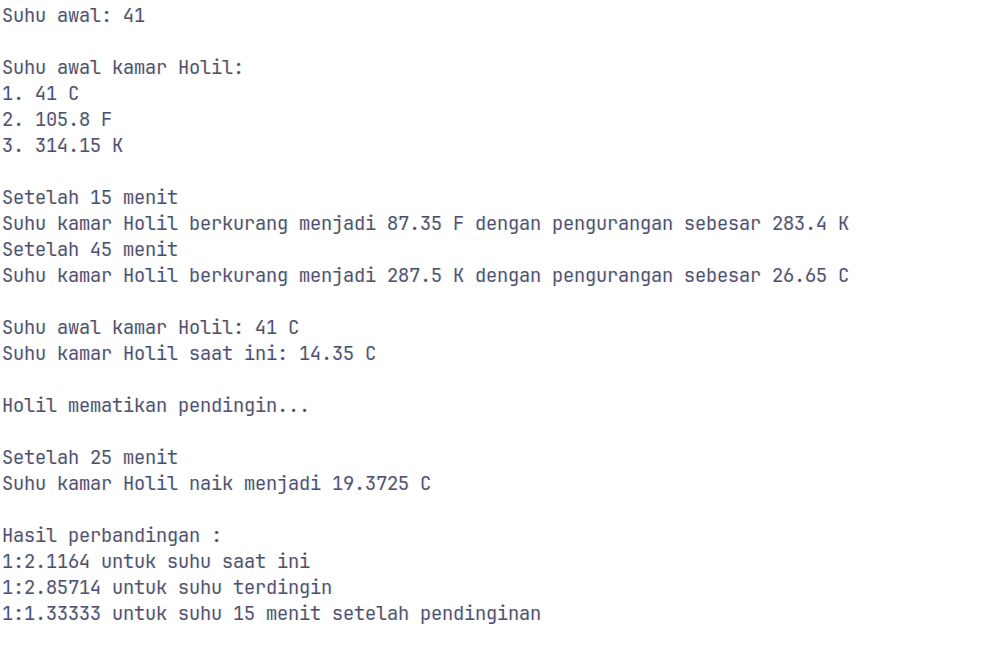
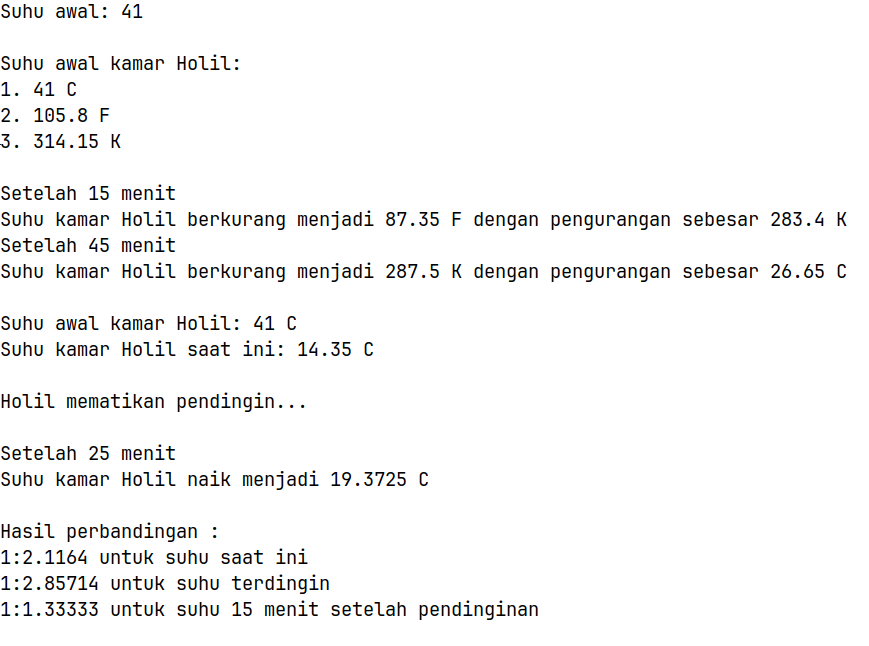
May this be the last...

diff --git a/sections/m1p5.tex b/sections/m1p5.tex
@@ -3,29 +3,29 @@
 \begin{document}
     \lstinputlisting[firstline=1,lastline=1]{res/m1c1.cpp}
 
-    {\Script} \inputscript{\#include <iostream>} adalah \textit{header file} yang digunakan sebagai standar masukan dan keluaran dalam bahasa C++ untuk mendeklarasikan dan mendefinisikan {\statement} \inputscript{cin} dan \inputscript{cout}.
+    \ilz{}{\Script} \inputscript{\#include <iostream>} adalah \textit{header file} yang digunakan sebagai standar masukan dan keluaran dalam bahasa C++ untuk mendeklarasikan dan mendefinisikan {\statement} \inputscript{cin} dan \inputscript{cout}.
 
     \lstinputlisting[firstline=2,lastline=2]{res/m1c1.cpp}
 
-    {\Script} \inputscript{using namespace std;} adalah {\statement} yang digunakan untuk memberikan perintah kepada {\compiler} bahwa file tersebut akan menggunakan seluruh fungsi yang menjadi bagian dari \inputscript{namespace std}.
+    \ilz{}{\Script} \inputscript{using namespace std;} adalah {\statement} yang digunakan untuk memberikan perintah kepada {\compiler} bahwa file tersebut akan menggunakan seluruh fungsi yang menjadi bagian dari \inputscript{namespace std}.
 
 \begin{lstlisting}
 int main()
 \end{lstlisting}
 
-    {\Script} \inputscript{int main()} merupakan \textit{entry point} dari setiap program yang ditulis dalam bahasa C++. \textit{Entry point} merupakan sebuah fungsi yang akan dijalankan setiap awal mula program dalam fungsi \inputscript{\_startup}.
+    \ilz{}{\Script} \inputscript{int main()} merupakan \textit{entry point} dari setiap program yang ditulis dalam bahasa C++. \textit{Entry point} merupakan sebuah fungsi yang akan dijalankan setiap awal mula program dalam fungsi \inputscript{\_startup}.
 
     \begin{lstlisting}
 float temp;
 \end{lstlisting}
 
-    {\Script} \inputscript{float temp} adalah sebuah {\statement} deklarasi sebuah variabel. Dalam bahasa C++ deklarasi variabel akan mengambil sebuah alamat memori dan membuat variabel yang menunjuk pada alamat tersebut. Oleh karena itu di bahasa C++ sebuah variabel yang dideklarasikan namun tidak diinisialisasi akan bernilai acak karena akan langsung menggunakan alamat memori tanpa mengaturnya ke 0.
+    \ilz{}{\Script} \inputscript{float temp} adalah sebuah {\statement} deklarasi sebuah variabel. Dalam bahasa C++ deklarasi variabel akan mengambil sebuah alamat memori dan membuat variabel yang menunjuk pada alamat tersebut. Oleh karena itu di bahasa C++ sebuah variabel yang dideklarasikan namun tidak diinisialisasi akan bernilai acak karena akan langsung menggunakan alamat memori tanpa mengaturnya ke 0.
 
 \begin{lstlisting}
 cout << "Suhu awal: ";
 \end{lstlisting}
 
-    {\Script} \inputscript{cout << "Suhu awal: "} akan memasukan teks ``Suhu Awal: '' kedalam {\ioo} {\stream} dengan perantara objek \inputscript{cout}. Semua teks yang berada di dalam {\ioo} {\stream} akan ditampilkan kepada pengguna dalam bentuk teks.
+    \ilz{}{\Script} \inputscript{cout << "Suhu awal: "} akan memasukan teks ``Suhu Awal: '' kedalam {\ioo} {\stream} dengan perantara objek \inputscript{cout}. Semua teks yang berada di dalam {\ioo} {\stream} akan ditampilkan kepada pengguna dalam bentuk teks.
 
 \begin{lstlisting}
 cout << "1. " << temp << " C" << endl;
@@ -33,25 +33,25 @@ cout << "2. " << ((temp * 1.8f) + 32) << " F" << endl;
 cout << "3. " << (temp + 273.15f) << " K" << endl << endl;
 \end{lstlisting}
 
-    {\Script} diatas akan menampilkan nilai variabel \inputscript{temp} dalam tiga unit suhu yakni Celsius, Fahrenheit, dan Kelvin. Penampilan tiga unit suhu tersebut dilakukan dalam tiga baris yang berbeda dan setiap baris diawali angka urutan barisnya.
+    \ilz{}{\Script} diatas akan menampilkan nilai variabel \inputscript{temp} dalam tiga unit suhu yakni Celsius, Fahrenheit, dan Kelvin. Penampilan tiga unit suhu tersebut dilakukan dalam tiga baris yang berbeda dan setiap baris diawali angka urutan barisnya.
 
 \begin{lstlisting}
 cin >> temp;
 \end{lstlisting}
 
-    {\Script} \inputscript{cin >> temp} adalah {\statement} {\ioi} yang mengambil masukan dari \textit{standard} {\ioi} {\stream} dan memasukannya kedalam variabel \inputscript{temp}. Hal ini juga yang mengakibatkan variabel \inputscript{temp} tidak diinisialisasikan seperti yang telah dijelaskan sebelumnya.
+    \ilz{}{\Script} \inputscript{cin >> temp} adalah {\statement} {\ioi} yang mengambil masukan dari \textit{standard} {\ioi} {\stream} dan memasukannya kedalam variabel \inputscript{temp}. Hal ini juga yang mengakibatkan variabel \inputscript{temp} tidak diinisialisasikan seperti yang telah dijelaskan sebelumnya.
 
 \begin{lstlisting}
 cout << endl;
 \end{lstlisting}
 
-    {\Script} \inputscript{cout << endl;} akan memasukan \textit{newline escape sequence} dan mem-\textit{flush} terhadap isi \textit{standard output stream}. Dalam bahasa C++ sebuah isi \textit{standard output stream} akan ditampilkan bila ditemukan \textit{newline escape sequence}, hal ini disebut dengan \textit{buffering}.
+    \ilz{}{\Script} \inputscript{cout << endl;} akan memasukan \textit{newline escape sequence} dan mem-\textit{flush} terhadap isi \textit{standard output stream}. Dalam bahasa C++ sebuah isi \textit{standard output stream} akan ditampilkan bila ditemukan \textit{newline escape sequence}, hal ini disebut dengan \textit{buffering}.
 
 \begin{lstlisting}
 float temp0 = (temp - (temp * 0.25f));
 \end{lstlisting}
 
-    {\Script} \inputscript{float temp0 = (temp - (temp * 0.25f));} adalah {\statement} inisialisasi variabel. Dalam kasus ini variabel yang diinisialisasikan akan bernilai sesuai nilai variabel \inputscript{temp} dikurangi 25\%. Nilai variabel \inputscript{temp0} bergantung pada nilai variabel \inputscript{temp}.
+    \ilz{}{\Script} \inputscript{float temp0 = (temp - (temp * 0.25f));} adalah {\statement} inisialisasi variabel. Dalam kasus ini variabel yang diinisialisasikan akan bernilai sesuai nilai variabel \inputscript{temp} dikurangi 25\%. Nilai variabel \inputscript{temp0} bergantung pada nilai variabel \inputscript{temp}.
 
 \begin{lstlisting}
 cout << "Setelah 15 menit" << endl;
@@ -61,13 +61,13 @@ cout << "Suhu kamar Holil berkurang menjadi "
      << " K" << endl;
 \end{lstlisting}
 
-    {\Script} diatas akan menampilkan teks ``Setelah 15 menit'' yang kemudian akan diikuti oleh teks yang akan menampilkan nilai variabel \inputscript{temp0} dalam unit suhu Fahrenheit dan perbandingan nilai variabel tersebut dengan nilai variabel \inputscript{temp} dalam satuan Kelvin.
+    \ilz{}{\Script} diatas akan menampilkan teks ``Setelah 15 menit'' yang kemudian akan diikuti oleh teks yang akan menampilkan nilai variabel \inputscript{temp0} dalam unit suhu Fahrenheit dan perbandingan nilai variabel tersebut dengan nilai variabel \inputscript{temp} dalam satuan Kelvin.
 
 \begin{lstlisting}
 float temp1 = (temp - (temp * 0.65f));
 \end{lstlisting}
 
-    {\Script} \inputscript{float temp1 = (temp - (temp * 0.65f));} merupakan sebuah {\statement} inisialisasi variabel. Dalam kasus ini variabel yang diinisialisasikan akan bernilai sesuai nilai variabel \inputscript{temp} dikurangi 65\%. Nilai variabel \inputscript{temp1} bergantung pada variabel \inputscript{temp}.
+    \ilz{}{\Script} \inputscript{float temp1 = (temp - (temp * 0.65f));} merupakan sebuah {\statement} inisialisasi variabel. Dalam kasus ini variabel yang diinisialisasikan akan bernilai sesuai nilai variabel \inputscript{temp} dikurangi 65\%. Nilai variabel \inputscript{temp1} bergantung pada variabel \inputscript{temp}.
 
 \begin{lstlisting}
 cout << "Setelah 45 menit" << endl;
@@ -76,19 +76,19 @@ cout << "Suhu kamar Holil berkurang menjadi " <<(temp1 + 273.15f)
      << endl << endl;
 \end{lstlisting}
 
-    {\Script} diatas akan menampilkan teks ``Setelah 45 menit'' yang kemudian akan diikuti oleh teks yang akan menampilkan nilai variabel \inputscript{temp1} dalam unit suhu Kelvin dan perbandingan nilai variabel tersebut dengan nilai variabel \inputscript{temp} dalam satuan Celsius.
+    \ilz{}{\Script} diatas akan menampilkan teks ``Setelah 45 menit'' yang kemudian akan diikuti oleh teks yang akan menampilkan nilai variabel \inputscript{temp1} dalam unit suhu Kelvin dan perbandingan nilai variabel tersebut dengan nilai variabel \inputscript{temp} dalam satuan Celsius.
 
 \begin{lstlisting}
 float temp2 = (temp1 + (temp1 * 0.35f));
 \end{lstlisting}
 
-    {\Script} \inputscript{float temp2 = (temp1 + (temp1 * 0.35f));} adalah sebuah {\statement} inisialisasi variabel. Dalam hal ini variabel yang diinisialisasikan akan bernilai sesuai dengan nilai variabel \inputscript{temp1} ditambahkan dengan 35\%.
+    \ilz{}{\Script} \inputscript{float temp2 = (temp1 + (temp1 * 0.35f));} adalah sebuah {\statement} inisialisasi variabel. Dalam hal ini variabel yang diinisialisasikan akan bernilai sesuai dengan nilai variabel \inputscript{temp1} ditambahkan dengan 35\%.
 
 \begin{lstlisting}
 cout << "Setelah 25 menit" << endl;
 \end{lstlisting}
 
-    {\Script} \inputscript{cout << "Setelah 25 menit" << endl;} adalah sebuah {\statement} yang akan memasukan teks ``Setelah 25 menit'' dan \textit{newline escape sequence} kedalam {\ioo} {\stream}. Semua isi dari {\ioo} {\stream} kemudian akan ditampilkan kepada pengguna.
+    \ilz{}{\Script} \inputscript{cout << "Setelah 25 menit" << endl;} adalah sebuah {\statement} yang akan memasukan teks ``Setelah 25 menit'' dan \textit{newline escape sequence} kedalam {\ioo} {\stream}. Semua isi dari {\ioo} {\stream} kemudian akan ditampilkan kepada pengguna.
 
 \begin{lstlisting}
 cout << "Suhu kamar Holil naik menjadi " << temp2 << " C" << endl 
@@ -100,11 +100,11 @@ cout << "1:" << (temp/temp0)
      << " untuk suhu 15 menit setelah pendinginan" << endl;
 \end{lstlisting}
 
-    {\Script} diatas akan menampilkan teks-teks secara berurutan. Teks yang pertama kali akan ditampilkan ialah nilai dari variabel \inputscript{temp2} setelah itu akan diikuti dengan perbandingan nilai variabel \inputscript{temp} dengan nilai variabel \inputscript{temp2}, perbandingan nilai variabel \inputscript{temp} dengan nilai variabel \inputscript{temp1} serta perbandingan nilai variabel \inputscript{temp} dengan nilai variabel \inputscript{temp0}. Setiap perbandingan nilai dua variabel tersebut akan ditampilkan pada tiga baris yang berbeda dan juga diakhiri dengan deskripsi pada setiap barisnya seperti ``untuk suhu saat ini'' pada perbandingan pertama, ``untuk suhu terdingin'' pada perbandingan kedua serta ``untuk suhu 15 menit setelah pendinginan'' pada baris terakhir.
+    \ilz{}{\Script} diatas akan menampilkan teks-teks secara berurutan. Teks yang pertama kali akan ditampilkan ialah nilai dari variabel \inputscript{temp2} setelah itu akan diikuti dengan perbandingan nilai variabel \inputscript{temp} dengan nilai variabel \inputscript{temp2}, perbandingan nilai variabel \inputscript{temp} dengan nilai variabel \inputscript{temp1} serta perbandingan nilai variabel \inputscript{temp} dengan nilai variabel \inputscript{temp0}. Setiap perbandingan nilai dua variabel tersebut akan ditampilkan pada tiga baris yang berbeda dan juga diakhiri dengan deskripsi pada setiap barisnya seperti ``untuk suhu saat ini'' pada perbandingan pertama, ``untuk suhu terdingin'' pada perbandingan kedua serta ``untuk suhu 15 menit setelah pendinginan'' pada baris terakhir.
 
 \begin{lstlisting}
 return 0;
 \end{lstlisting}
 
-    {\Script} ``{\crnfamily return 0;}'' adalah {\statement} keluaran sebuah fungsi yang akan menunjukan kembalian sebuah fungsi. {\Statement} ini juga menandakan akhir sebuah fungsi. Dalam kasus fungsi ``{\crnfamily int main}'' {\statement} ``{\crnfamily return 0;}'' digunakan untuk mengembalikan status eksekusi sebuah program pada akhir program. Bila kembaliannya ``0'' maka program tersebut berjalan tanpa masalah, namun apabila kembaliannya bukan ``0'' maka ada kendala atau kesalahan saat menjalankan program tersebut.
+    \ilz{}{\Script} ``{\crnfamily return 0;}'' adalah {\statement} keluaran sebuah fungsi yang akan menunjukan kembalian sebuah fungsi. {\Statement} ini juga menandakan akhir sebuah fungsi. Dalam kasus fungsi \inputscript{int main} {\statement} \inputscript{return 0;} digunakan untuk mengembalikan status eksekusi sebuah program pada akhir program. Bila kembaliannya 0 maka program tersebut berjalan tanpa masalah, namun apabila kembaliannya bukan 0 maka ada kendala atau kesalahan saat menjalankan program tersebut.
 \end{document}

diff --git a/sections/m1p6.tex b/sections/m1p6.tex
@@ -13,7 +13,7 @@
             Setiap program yang ditulis dalam bahasa C++ harus memiliki fungsi \inputscript{int main()}, fungsi tersebut berfungsi sebagai \textit{entry point} program. Setiap program yang ditulis dalam bahasa C++ harus memiliki fungsi tersebut kecuali pada saat program di-\textit{compile} dengan opsi \inputscript{-nostdlib} dimana akan menyebabkan program yang ditulis tidak bergantung pada C++ \textit{standard library} yang akan menyebabkan {\header} {\file} seperti \inputscript{iostream}, \inputscript{iomanip}, dan sebagainya tidak bekerja serta membuat isi fungsi \inputscript{int main()} dikarenakan fungsi tersebut bukan lagi merupakan \textit{entry point}.
         }
         \item {
-            Tipe data menentukan jenis nilai yang bisa disimpan dan dioperasikan dalam program. Contohnya termasuk \inputscript{int}, \inputscript{float}, \inputscript{double}, \inputscript{bool} dan \inputscript{char}. Memahami penggunaan tipe data memastikan integritas dan keakuratan data dalam program. Setiap tipe data memiliki ukuran yang spesifik yang bergantung pada mesin dimana program tersebut di-\textit{compile} misal pada mesin 32-bit ukuran tipe data \inputscript{integer} adalah 2 \textit{byte} sedangkan pada mesin 64-bit ukuran data \inputscript{integer} adalah 4 \textit{byte}.
+            Tipe data menentukan jenis nilai yang bisa disimpan dan dioperasikan dalam program. Contohnya termasuk \inputscript{int}, \inputscript{float}, \inputscript{double}, \inputscript{bool} dan \inputscript{char}. Memahami penggunaan tipe data memastikan integritas dan keakuratan data dalam program. Setiap tipe data memiliki ukuran yang spesifik yang bergantung pada mesin dimana program tersebut di-\textit{compile} misal pada mesin 32-bit ukuran tipe data \inputscript{int} adalah 2 \textit{byte} sedangkan pada mesin 64-bit ukuran data \inputscript{int} adalah 4 \textit{byte}.
         }
         \item {
             {\Typecasting} adalah proses mengubah tipe data variabel dari satu jenis ke jenis lainnya. Ini sering digunakan untuk memastikan konsistensi dalam operasi yang melibatkan tipe data yang berbeda atau untuk mengatasi masalah konversi tipe. {\Typecasting} dapat dilakukan secara eksplisit, di mana pemrogram secara langsung menentukan konversi tipe data, atau implisit, di mana konversi dilakukan secara otomatis oleh bahasa pemrograman.

diff --git a/sections/m1p4.tex b/sections/m1p4.tex
@@ -29,12 +29,12 @@
     \newpage
 
     \subsubsection{Hasil Program}
-    \inputfigure[p]{res/m1i1.png}{0.25}{Tampilan Program Menghitung Suhu Ruangan}{fig:m1:i1}
+    \inputfigure[p]{res/m1i1.png}{0.35}{Tampilan Program Menghitung Suhu Ruangan}{fig:m1:i1}
 
     \begin{indentlevel0}
-        \ilz{}Berdasarkan \reffigure{fig:m1:i1} di atas, didapatkan keluaran dari program ``Menghitung Suhu Ruangan''. Di baris teratas program meminta masukan berupa suhu kepada pengguna, kemudian mengeluarkannya di paragraf selanjutnya. Pada paragraf tersebut ditampilkan suhu masukan di dalam tiga unit yaitu Celsius, Fahrenheit, dan Kelvin.
+        \ilz{}Berdasarkan \reffigure{fig:m1:i1} di atas, didapatkan keluaran dari program Menghitung Suhu Ruangan. Di baris teratas program meminta masukan berupa suhu kepada pengguna, kemudian mengeluarkannya di paragraf selanjutnya. Pada paragraf tersebut ditampilkan suhu masukan di dalam tiga unit yaitu Celsius, Fahrenheit, dan Kelvin.
 
-        \ilz{}Paragraf seterusnya menunjukan perubahan waktu dan dampaknya pada suhu awal. Seperti yang dapat dilihat pada paragraf ketiga semakin banyak waktu berlalu semakin menurun suju ruangan. Di paragraf setelah itu ditunjukan suhu awal ruangan dan suhu saat ini setelah 45 menit berlalu dari awal jalannya program.
+        \ilz{}Paragraf seterusnya menunjukan perubahan waktu dan dampaknya pada suhu awal. Seperti yang dapat dilihat pada paragraf ketiga semakin banyak waktu berlalu semakin menurun suhu ruangan. Di paragraf setelah itu ditunjukan suhu awal ruangan dan suhu saat ini setelah 45 menit berlalu dari awal jalannya program.
 
         \ilz{}Baris selanjutnya menunjukan keadaan pendingin yang telah dimatikan. Paragraf setelah itupun menunjukan suhu ruangan setelah dimatikan yang telah naik dibandingkan suhu 25 menit sebelumnya saat pendingin baru dimatikan.
 

diff --git a/main.tex b/main.tex
@@ -348,6 +348,7 @@
 
 	\renewcommand{\headrule}{
 		{\color[RGB]{68, 114, 196} \hrule width \hsize \kern 0.5mm \hrule width \hsize height 3pt}
+        \vspace{-3ex}
 	}
 	\renewcommand{\footrule}{
 		{\color[RGB]{68, 114, 196} \hrule width \hsize height 3pt \hrule width \hsize \kern 0.5mm \hrule width \hsize height 0.2pt}
